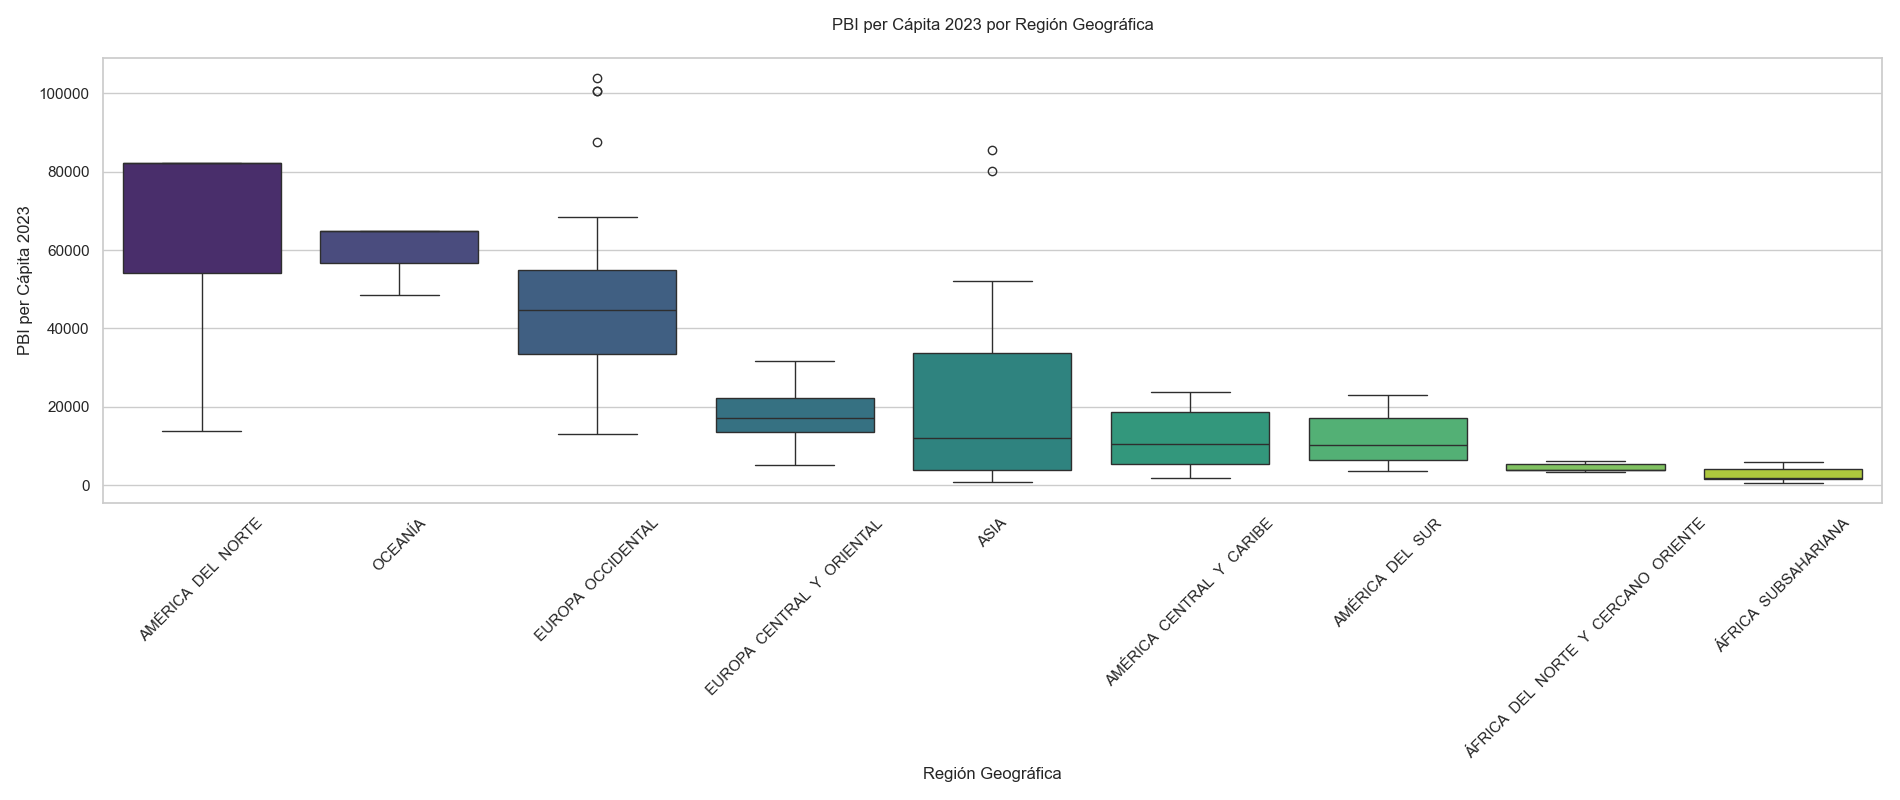
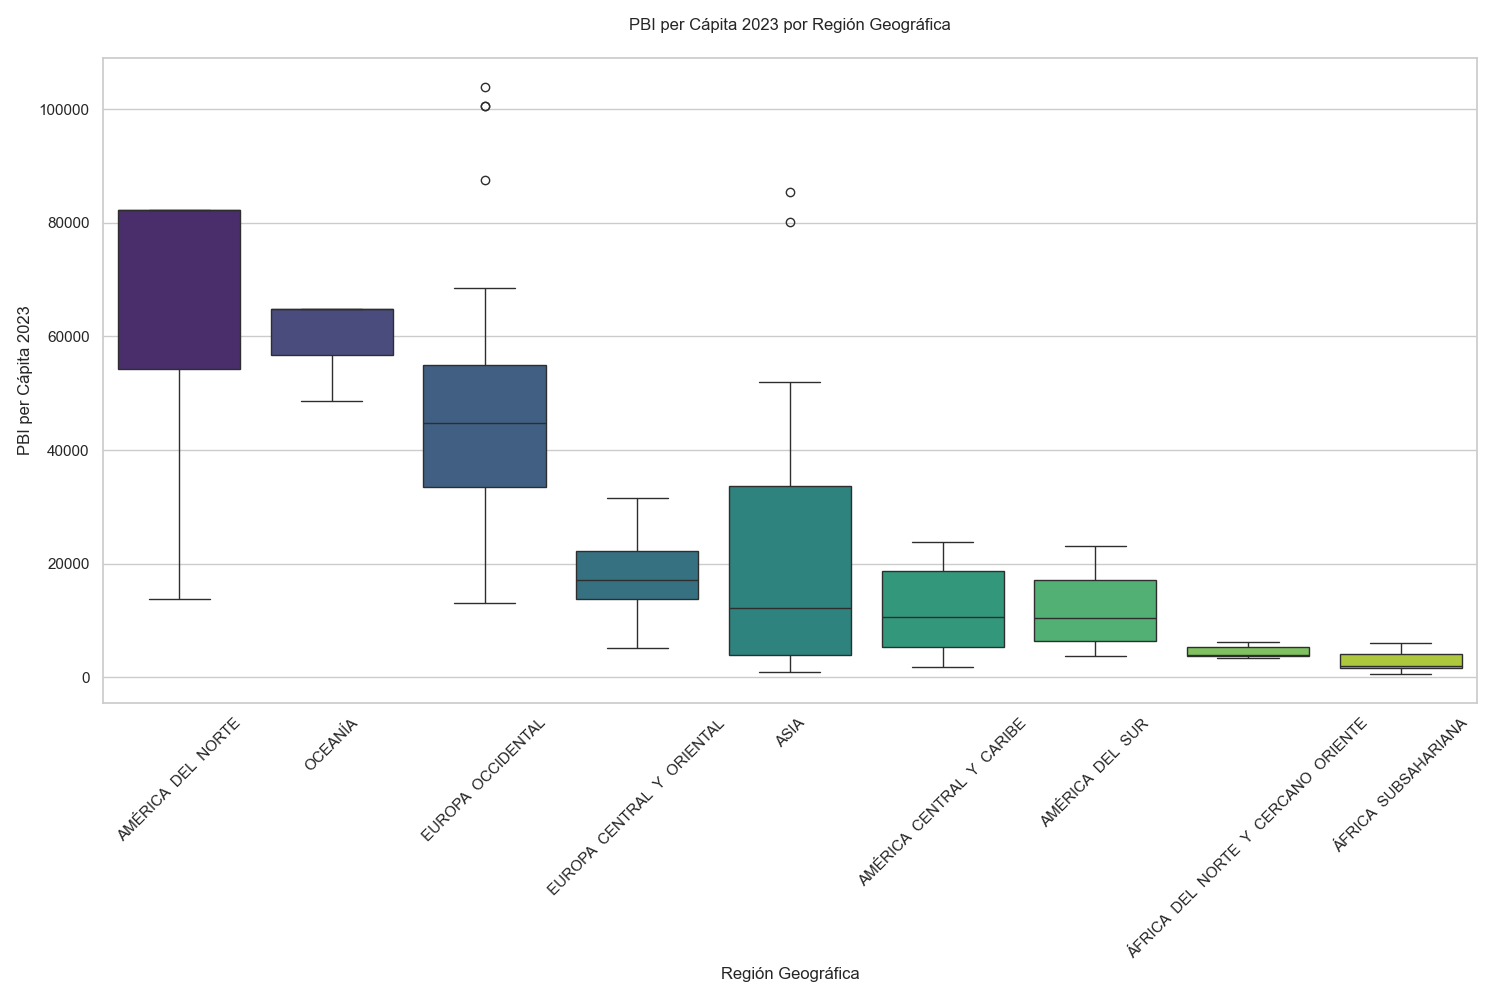
renaming

diff --git a/reportes/grafico.py b/reportes/grafico.py
@@ -11,18 +11,30 @@ sedes_df = pd.read_csv(path + 'sedes_completos.csv')
 gdp_df = pd.read_csv(path + 'gdp_2023.csv')
 
 # Figure a: Sedes por región geográfica
-plt.figure(figsize=(12, 6))
+plt.figure(figsize=(15, 8))  # Increased size for better readability
 sedes_por_region = sedes_df['region_geografica'].value_counts()
-sns.barplot(x=sedes_por_region.values, 
-           y=sedes_por_region.index,
-           palette='viridis')
 
-plt.title('Cantidad de Sedes por Región Geográfica', pad=20)
-plt.xlabel('Cantidad de Sedes')
-plt.ylabel('Región Geográfica')
+# Create bar plot
+ax = sns.barplot(x=sedes_por_region.values, 
+                y=sedes_por_region.index,
+                palette='viridis')
+
+# Add value labels inside bars
+for i, v in enumerate(sedes_por_region.values):
+    ax.text(1,  # x position (middle of bar)
+            i,    # y position
+            f' {v} ',  # text (value)
+            color='white',
+            fontweight='bold',
+            ha='center',
+            va='center',
+            fontsize=10)
+
+plt.title('Cantidad de Sedes por Región Geográfica', pad=20, fontsize=14)
+plt.xlabel('Cantidad de Sedes', fontsize=12)
+plt.ylabel('Región Geográfica', fontsize=12)
 plt.tight_layout()
-plt.savefig(save_path + 'sedes_por_region.png')
-plt.show()
+plt.savefig(save_path + 'sedes_por_region.png', dpi=300, bbox_inches='tight')
 
 # Figure b: Boxplot PBI per cápita por región
 # Merge data
@@ -36,7 +48,7 @@ medianas = datos_unidos.groupby('region_geografica')['2023'].median()
 orden_regiones = medianas.sort_values(ascending=False).index
 
 # Create boxplot
-plt.figure(figsize=(19, 8))
+plt.figure(figsize=(15, 10))
 sns.boxplot(data=datos_unidos,
            x='region_geografica',
            y='2023',
@@ -49,13 +61,25 @@ plt.xlabel('Región Geográfica')
 plt.ylabel('PBI per Cápita 2023')
 plt.tight_layout()
 plt.savefig(save_path + 'pbi_por_region.png')
-plt.show()
 
 # Figure c: Relación entre PBI per capita y cantidad de sedes
-plt.figure(figsize=(12, 6))
+plt.figure(figsize=(15, 8))
 
-# Count sedes per country
-sedes_por_pais = sedes_df.groupby('pais_iso_3').size().reset_index(name='cantidad_sedes')
+# Create custom color palette for regions with extra spaces to match data
+region_colors = {
+    'AMÉRICA  DEL  SUR': '#e74c3c',
+    'ASIA': '#9b59b6',
+    'EUROPA  OCCIDENTAL': '#2980b9',
+    'AMÉRICA  DEL  NORTE': '#2ecc71',
+    'EUROPA  CENTRAL  Y  ORIENTAL': '#3498db',
+    'AMÉRICA  CENTRAL  Y  CARIBE': '#1abc9c',
+    'ÁFRICA  SUBSAHARIANA': '#f1c40f',
+    'OCEANÍA': '#e67e22',
+    'ÁFRICA  DEL  NORTE  Y  CERCANO  ORIENTE': '#d35400'
+}
+
+# Count sedes per country and include region information
+sedes_por_pais = sedes_df.groupby(['pais_iso_3', 'region_geografica']).size().reset_index(name='cantidad_sedes')
 
 # Merge with GDP data
 relacion_df = sedes_por_pais.merge(gdp_df, 
@@ -63,14 +87,24 @@ relacion_df = sedes_por_pais.merge(gdp_df,
                                   right_on='Country Code',
                                   how='left')
 
-# Create scatter plot
+# Create scatter plot with colors by region
 sns.scatterplot(data=relacion_df,
                 x='2023',
-                y='cantidad_sedes')              # Transparency
+                y='cantidad_sedes',
+                hue='region_geografica',
+                palette=region_colors,
+                s=50,  # Increase point size
+                alpha=0.6)  # Add some transparency
 
-plt.title('Relación entre PBI per Cápita y Cantidad de Sedes por País', pad=20)
-plt.xlabel('PBI per Cápita 2023')
-plt.ylabel('Cantidad de Sedes')
+plt.title('Relación entre PBI per Cápita y Cantidad de Sedes por País', pad=20, fontsize=14)
+plt.xlabel('PBI per Cápita 2023 (USD)', fontsize=12)
+plt.ylabel('Cantidad de Sedes', fontsize=12)
+
+# Rotate legend labels if needed
+plt.legend(title='Región Geográfica', bbox_to_anchor=(1.05, 1), loc='upper left')
+
+# Format x-axis with thousand separators
+plt.gca().xaxis.set_major_formatter(plt.FuncFormatter(lambda x, p: format(int(x), ',')))
+
 plt.tight_layout()
-plt.savefig(save_path+'pbi_vs_sedes.png')
-plt.show()
+plt.savefig(save_path+'pbi_vs_sedes.png', dpi=300, bbox_inches='tight')

diff --git a/procesamiento/secciones.py b/procesamiento/secciones.py
@@ -85,13 +85,33 @@ original_metrics = {
     'completeness': overall_completeness
 }
 
-# Identify and drop columns with >90% missing values
-columns_to_drop = missing_percentages[missing_percentages > 90].index
-secciones_cleaned = secciones.drop(columns=columns_to_drop)
+# Modified column dropping section
+print(f"\n{Fore.CYAN}Proceso de limpieza de columnas:{Style.RESET_ALL}")
+print("=" * 50)
 
-print(f"\n{Fore.RED}Columnas eliminadas (>90% valores faltantes):{Style.RESET_ALL}")
+# More explicit column dropping with verification
+columns_to_drop = []
+for column, percentage in missing_percentages.items():
+    if percentage > 90:
+        columns_to_drop.append(column)
+        print(f"Marcando para eliminar: {column} ({percentage:.2f}% valores faltantes)")
+
+# Verify columns exist before dropping
+secciones_cleaned = secciones.copy()
+actually_dropped = []
 for col in columns_to_drop:
+    if col in secciones_cleaned.columns:
+        secciones_cleaned.drop(columns=col, inplace=True)
+        actually_dropped.append(col)
+
+print(f"\n{Fore.GREEN}Columnas efectivamente eliminadas:{Style.RESET_ALL}")
+for col in actually_dropped:
     print(f"- {col}: {missing_percentages[col]:.2f}% faltante")
+
+print(f"\n{Fore.YELLOW}Verificación:{Style.RESET_ALL}")
+print(f"Columnas originales: {len(secciones.columns)}")
+print(f"Columnas eliminadas: {len(actually_dropped)}")
+print(f"Columnas restantes: {len(secciones_cleaned.columns)}")
 
 # Recalculate metrics for cleaned dataset
 cleaned_total_columns = len(secciones_cleaned.columns)

diff --git a/reportes/reporte7C.py b/reportes/reporte7C.py
@@ -67,7 +67,7 @@ print("=" * 50)
 print(variedades_redes.to_string(index=False))
 print("=" * 50)
 
-variedades_redes.to_csv('reportes/csv/reporte3.csv', index=False)
+variedades_redes.to_csv('reportes/csv/reporte7C.csv', index=False)
 # Mostrar el detalle de tipos de redes por país
 print("\nDetalle de tipos de redes por país:")
 print("=" * 50)

diff --git a/reportes/reporte7D.py b/reportes/reporte7D.py
@@ -67,4 +67,4 @@ else:
     print("No se encontraron redes sociales registradas.")
 print("=" * 120)
 
-reporte.to_csv('reportes/csv/reporte4.csv', index=False)
+reporte.to_csv('reportes/csv/reporte7D.csv', index=False)

diff --git a/reportes/reporte7B.py b/reportes/reporte7B.py
@@ -24,4 +24,4 @@ print("=" * 100)
 print(reporte2.to_string(index=False))
 print("=" * 100)
 
-reporte2.to_csv('reportes/csv/reporte2.csv', index=False)
+reporte2.to_csv('reportes/csv/reporte7B.csv', index=False)

diff --git a/reportes/reporte7A.py b/reportes/reporte7A.py
@@ -55,4 +55,4 @@ print("=" * 70)
 print(reporte1.to_string(index=False))
 print("=" * 70)
 
-reporte1.to_csv('reportes/csv/reporte1.csv', index=False)
+reporte1.to_csv('reportes/csv/reporte7A.csv', index=False)
